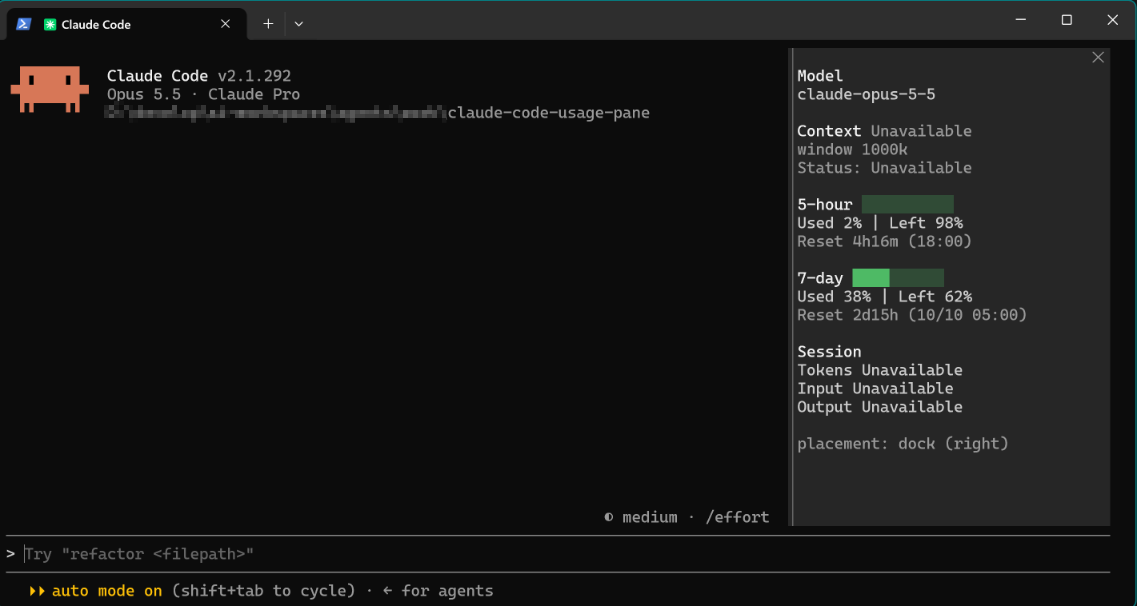
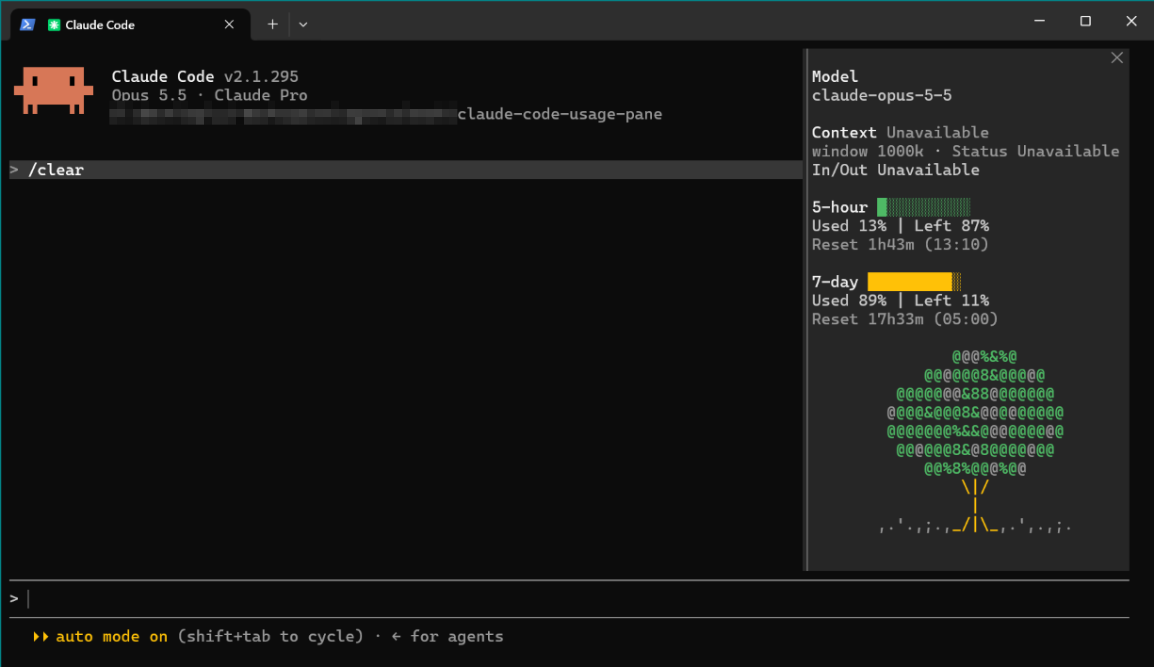
docs: 更新面板截圖與 README 版面說明
- 截圖換成含小樹動畫的新版面
- README 改寫 Context 合併 In/Out、placement 顯示規則，並新增小樹說明

Changed region(s): [[0.0, 0.0, 1.0, 1.0], [0.0, 0.0, 0.1231, 0.0594], [0.1847, 0.0297, 0.2155, 0.0594]]

diff --git a/README.md b/README.md
@@ -8,8 +8,9 @@ A usage dashboard for Claude Code that docks on the right side of the terminal. 
 - 7-day usage
 - the percentage remaining on each limit
 - a countdown to each limit's reset
-- session token usage
+- session input and output tokens
 - `WARNING` and `CRITICAL` states as context fills up
+- an animated ASCII tree at the bottom
 
 This repository is a Claude Code plugin marketplace named `claude-code-usage-pane`. It ships one plugin, `usage-pane`.
 
@@ -20,12 +21,13 @@ This repository is a Claude Code plugin marketplace named `claude-code-usage-pan
 ## Features
 
 - **Model**: the model the session is using.
-- **Context**: percent used with a 10-cell bar, `tokens / window`, and a severity status:
+- **Context**: percent used with a 10-cell bar, `tokens / window` with a severity status, and the session's `In / Out` tokens:
   - `NORMAL` below 70%
   - `WARNING` from 70%
   - `CRITICAL` from 90%
 - **5-hour and 7-day limits**: a bar, `Used X% | Left Y%`, and the time until reset (for example `Reset 2h14m (12:14)` or `Reset 3d0h (10/10 10:00)`).
-- **Session**: context tokens, plus input and output tokens summed over main-loop turns. Subagent turns are excluded, and `/clear` resets the totals.
+- **In / Out**: input and output tokens summed over main-loop turns. Subagent turns are excluded, and `/clear` resets the totals.
+- **Tree**: a small ASCII tree centered at the bottom. A gust ripples across the canopy every few seconds and drops a leaf. The animation runs on the drawing thread and doesn't refetch usage.
 - Refreshes every 30 seconds and after each turn.
 - Any value that isn't reported shows `Unavailable` instead of a guess.
 - Adds a `/usage-pane` command that reopens the pane and reports where it's placed.
@@ -45,7 +47,7 @@ When asked, choose a scope. User scope is listed first.
 
 - The pane opens when a session starts. It docks on the right in the fullscreen layout once the terminal is at least 144 columns wide.
 - Run `/usage-pane` to open it at any time. When you open it yourself, it docks from 110 columns.
-- The footer line shows where the pane is placed: `placement: dock (right)` or `placement: inline (needs fullscreen)`.
+- When the pane isn't docked, a line under Context reads `placement: inline (needs fullscreen)`.
 
 ## Compatibility
 
@@ -62,7 +64,7 @@ When asked, choose a scope. User scope is listed first.
 | Pane shows below the transcript instead of on the right | Set `"tui": "fullscreen"` (or use `/config`), restart, and make the terminal at least 110 columns wide. Running `/usage-pane` tells you the current layout and width. |
 | Pane doesn't open at startup | Startup opening needs at least 144 columns. Widen the terminal or run `/usage-pane`. |
 | 5-hour / 7-day rows show `Unavailable` | Your account or provider isn't reporting rate limits for this session. |
-| Input / Output show `Unavailable` | No main-loop turn has finished yet since the session started or since `/clear`. |
+| `In/Out Unavailable` | No main-loop turn has finished yet since the session started or since `/clear`. |
 | `Marketplace file not found` | Check that the repository is `tyda/claude-code-usage-pane` and that `.claude-plugin/marketplace.json` exists on the default branch. |
 | `Plugin "usage-pane" not found in marketplace` | Install with `usage-pane@claude-code-usage-pane` exactly. |
 | The plugin fails to load | Run `claude --debug` and look for lines beginning `usage-pane:`. |
